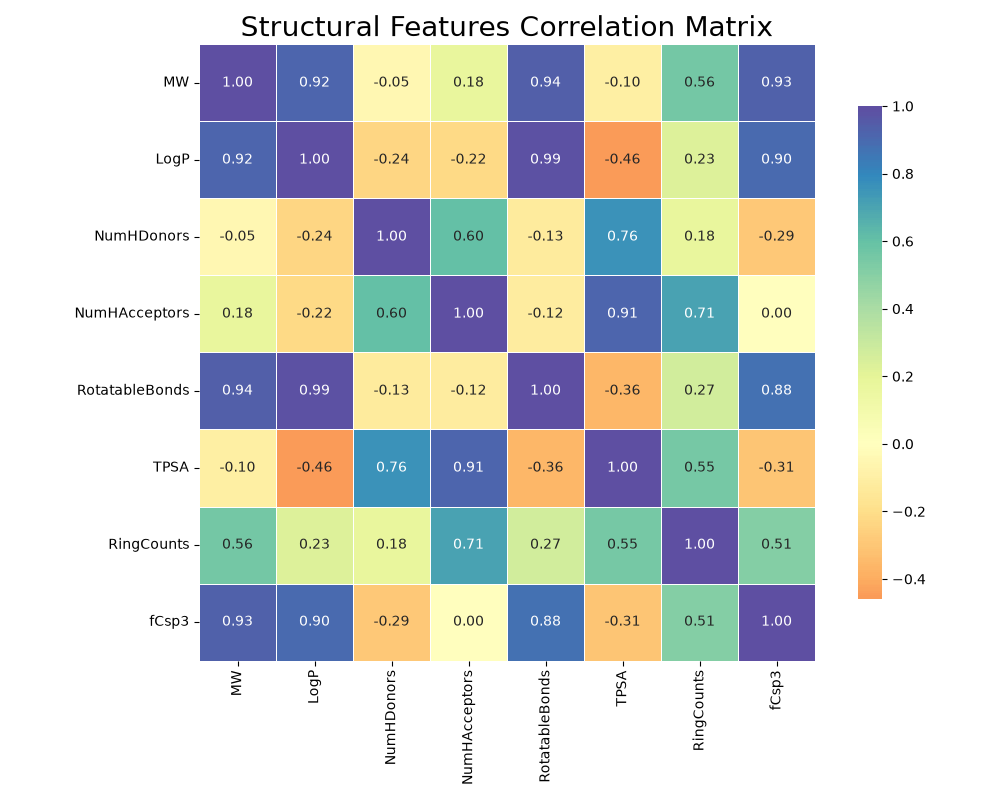
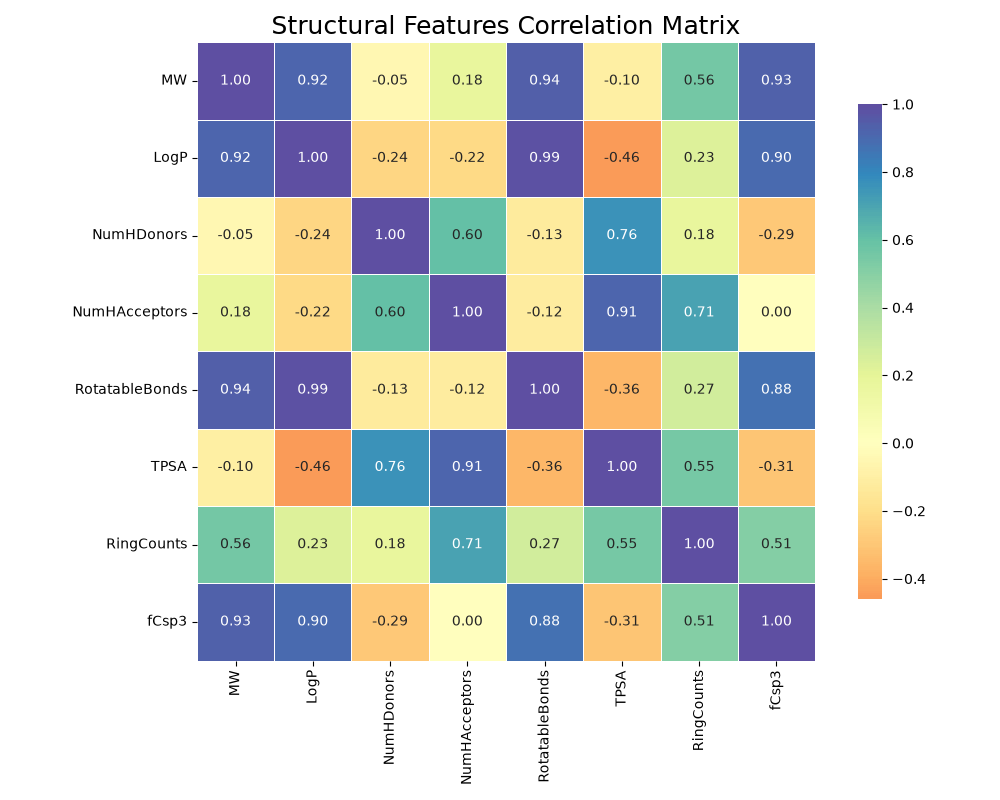
commit

diff --git a/src/New_Classification.py b/src/New_Classification.py
@@ -1,6 +1,32 @@
-import pandas as pd;
-import numpy as np;
-np.random.seed(42);
+import pandas as pd
+import numpy as np
+import json
+import os
+
 from xgboost import XGBClassifier
 from sklearn.ensemble import ExtraTreesClassifier, GradientBoostingClassifier, RandomForestClassifier
+from sklearn.tree import DecisionTreeClassifier
+from sklearn.model_selection import KFold, ParameterSampler
+from sklearn.preprocessing import OneHotEncoder
+from sklearn.metrics import confusion_matrix, precision_score, balanced_accuracy_score, recall_score
+from tabulate import tabulate
 
+# Path Constants
+DATA_DIR = "Data/Processed_Data.csv"
+RESULTS_DIR = "Results/Regression/"
+FIGURES_DIR = RESULTS_DIR + "Figures/"
+PARAMETERS_DIR = RESULTS_DIR + "BestParameters/"
+
+# mkdirs commands to ensure that the directories do exist
+os.makedirs(RESULTS_DIR, exist_ok=True)
+os.makedirs(FIGURES_DIR, exist_ok=True)
+os.makedirs(PARAMETERS_DIR, exist_ok=True)
+
+# Training constants
+RANDOM_STATE = 42
+N_ITER = 30 # For the randomsearch to find the best parameters
+N_SPLITS = 5 # For KFold
+
+# Other constants
+LINE = "=" * 100
+TRIANGLE = "▶"

diff --git a/src/PreProcessing.py b/src/PreProcessing.py
@@ -173,16 +173,16 @@ plt.figure(figsize=(10, 8))
 
 sns.heatmap(corr_matrix, 
             annot=True,                # Show values
-            cmap='Spectral',             # Color scheme
+            cmap='Spectral',           # Color scheme
             center=0,                  # Center colormap at 0
             fmt='.2f',                 # 2 decimal places
             square=True,               # Square cells
             linewidths=0.5,            # Grid lines
             cbar_kws={"shrink": 0.8})  # Colorbar size
 
-plt.title('Structural Features Correlation Matrix', fontsize=20)
+plt.title('Structural Features Correlation Matrix', fontsize=18)
 plt.tight_layout()
-plt.savefig("Figures/Correlation_Matrix.png")
+plt.savefig("Figures/Fig1_Correlation_Matrix.png")
 # plt.show()
 
 # Save the data
